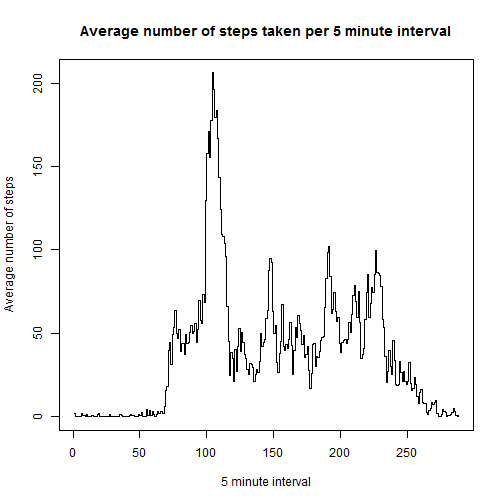
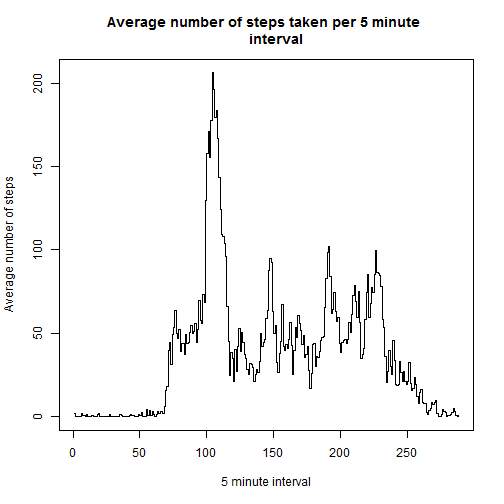
Final submit

Changed region(s): [[0.1488, 0.0298, 0.8929, 0.0893]]

diff --git a/PA1_template.html b/PA1_template.html
@@ -209,10 +209,11 @@ hr {
 <li>We create a histogram of total number of steps taken each day.</li>
 </ol>
 
-<pre><code class="r">plot(data$date, data$steps, type = &quot;h&quot;, main = &quot;Total number of steps taken each day&quot;, ylab = &quot;Number of steps&quot;, xlab = &quot;Date&quot;)
+<pre><code class="r">plot(data$date, data$steps, type = &quot;h&quot;, main = &quot;Total number of steps taken 
+     each day&quot;, ylab = &quot;Number of steps&quot;, xlab = &quot;Date&quot;)
 </code></pre>
 
[2 lines of base64/hex data omitted]
 
 <ol>
 <li>We then calculate the mean and median number of steps taken per day and return it in the text below.</li>
@@ -220,7 +221,8 @@ hr {
 
 <pre><code class="r">meansteps &lt;- mean(data$steps, na.rm=TRUE)
 mediansteps &lt;- median(data$steps, na.rm=TRUE)
-##The mean number of steps is `r meansteps` and the median number of steps is `r mediansteps`. Please note that missing values have been ignored.
+##The mean number of steps is `r meansteps` and the median number of steps is 
+##`r mediansteps`. Please note that missing values have been ignored.
 </code></pre>
 
 <p>The mean number of steps is 37.3826 and the median number of steps is 0. Please note that missing values have been ignored.</p>
@@ -232,17 +234,19 @@ mediansteps &lt;- median(data$steps, na.rm=TRUE)
 </ol>
 
 <pre><code class="r">DAP &lt;- sapply(split(data$steps, data$interval), mean, na.rm=TRUE)
-plot(DAP, type = &quot;s&quot;, main = &quot;Average number of steps taken per 5 minute interval&quot;, ylab = &quot;Average number of steps&quot;, xlab = &quot;5 minute interval&quot;)
+plot(DAP, type = &quot;s&quot;, main = &quot;Average number of steps taken per 5 minute 
+     interval&quot;, ylab = &quot;Average number of steps&quot;, xlab = &quot;5 minute interval&quot;)
 </code></pre>
 
[2 lines of base64/hex data omitted]
 
 <ol>
 <li>We then calculate the max 5 minute interval and return it in the text below</li>
 </ol>
 
 <pre><code class="r">maxDAP &lt;- which(DAP == max(DAP))
-##The 5-minute interval, on average across all the days in the dataset, which contains the maximum number of steps, is the `r maxDAP`th interval.
+##The 5-minute interval, on average across all the days in the dataset, which
+##contains the maximum number of steps, is the `r maxDAP`th interval.
 </code></pre>
 
 <p>The 5-minute interval, on average across all the days in the dataset, which contains the maximum number of steps, is the 104th interval.</p>
@@ -285,14 +289,17 @@ completedata$steps &lt;- newv
 <li>First, we make a histogram of the total number of steps taken each day and then we calculate and report the mean and median total number of steps taken per day in the text below.</li>
 </ol>
 
-<pre><code class="r">plot(completedata$date, completedata$steps, type = &quot;h&quot;, main = &quot;Total number of steps taken each day&quot;, ylab = &quot;Number of steps&quot;, xlab = &quot;Date&quot;)
+<pre><code class="r">plot(completedata$date, completedata$steps, type = &quot;h&quot;, main = &quot;Total number 
+     of steps taken each day&quot;, ylab = &quot;Number of steps&quot;, xlab = &quot;Date&quot;)
 </code></pre>
 
[2 lines of base64/hex data omitted]
 
 <pre><code class="r">meansteps2 &lt;- mean(completedata$steps)
 mediansteps2 &lt;- median(completedata$steps)
-##The mean number of steps taken each day is `r meansteps` and the median number of steps is `r mediansteps`. Please note that missing values have been replaced with the average value per 5 minute interval.
+##The mean number of steps taken each day is `r meansteps` and the median number 
+##of steps is `r mediansteps`. Please note that missing values have been 
+##replaced with the average value per 5 minute interval.
 </code></pre>
 
 <p>The mean number of steps taken each day is 37.3826 and the median number of steps is 0. Please note that missing values have been replaced with the average value per 5 minute interval.</p>
@@ -308,11 +315,23 @@ mediansteps2 &lt;- median(completedata$steps)
 <pre><code class="r">install.packages(&quot;timeDate&quot;, repos=&quot;http://cran.rstudio.com/&quot;)
 </code></pre>
 
-<pre><code>## Error in install.packages : Updating loaded packages
+<pre><code>## Installing package into &#39;C:/Users/mikoflan/Documents/R/win-library/3.1&#39;
+## (as &#39;lib&#39; is unspecified)
+</code></pre>
+
+<pre><code>## package &#39;timeDate&#39; successfully unpacked and MD5 sums checked
+## 
+## The downloaded binary packages are in
+##  C:\Users\mikoflan\AppData\Local\Temp\RtmpQ3X17d\downloaded_packages
 </code></pre>
 
 <pre><code class="r">library(&quot;timeDate&quot;)
-time &lt;- completedata$date
+</code></pre>
+
+<pre><code>## Warning: package &#39;timeDate&#39; was built under R version 3.1.1
+</code></pre>
+
+<pre><code class="r">time &lt;- completedata$date
 weekend &lt;- sapply(as.Date(time), isWeekend)
 weekend &lt;- gsub(&quot;TRUE&quot;, &quot;weekend&quot;, weekend)
 weekend &lt;- gsub(&quot;FALSE&quot;, &quot;weekday&quot;, weekend)
@@ -341,7 +360,8 @@ wedf &lt;- data.frame(Interval, stepswe, timewe)
 colnames(wedf) &lt;- c(&quot;Interval&quot;, &quot;steps&quot;, &quot;time&quot;)
 colnames(wddf) &lt;- c(&quot;Interval&quot;, &quot;steps&quot;, &quot;time&quot;)
 alldata &lt;- rbind(wddf, wedf)
-xyplot(steps ~ Interval | time, data = alldata, type = &quot;l&quot;, layout = c(1, 2), ylab = &quot;Number of steps&quot;)
+xyplot(steps ~ Interval | time, data = alldata, type = &quot;l&quot;, 
+       layout = c(1, 2), ylab = &quot;Number of steps&quot;)
 </code></pre>
 
[1 lines of base64/hex data omitted]

diff --git a/PA1_template.md b/PA1_template.md
@@ -29,7 +29,8 @@ data$date <- strptime(data$date, "%Y-%m-%d")
 
 
 ```r
-plot(data$date, data$steps, type = "h", main = "Total number of steps taken each day", ylab = "Number of steps", xlab = "Date")
+plot(data$date, data$steps, type = "h", main = "Total number of steps taken 
+     each day", ylab = "Number of steps", xlab = "Date")
 ```
 
 ![plot of chunk unnamed-chunk-3](figure/unnamed-chunk-3.png) 
@@ -40,7 +41,8 @@ plot(data$date, data$steps, type = "h", main = "Total number of steps taken each
 ```r
 meansteps <- mean(data$steps, na.rm=TRUE)
 mediansteps <- median(data$steps, na.rm=TRUE)
-##The mean number of steps is `r meansteps` and the median number of steps is `r mediansteps`. Please note that missing values have been ignored.
+##The mean number of steps is `r meansteps` and the median number of steps is 
+##`r mediansteps`. Please note that missing values have been ignored.
 ```
 
 The mean number of steps is 37.3826 and the median number of steps is 0. Please note that missing values have been ignored.
@@ -52,7 +54,8 @@ The mean number of steps is 37.3826 and the median number of steps is 0. Please 
 
 ```r
 DAP <- sapply(split(data$steps, data$interval), mean, na.rm=TRUE)
-plot(DAP, type = "s", main = "Average number of steps taken per 5 minute interval", ylab = "Average number of steps", xlab = "5 minute interval")
+plot(DAP, type = "s", main = "Average number of steps taken per 5 minute 
+     interval", ylab = "Average number of steps", xlab = "5 minute interval")
 ```
 
 ![plot of chunk unnamed-chunk-5](figure/unnamed-chunk-5.png) 
@@ -62,7 +65,8 @@ plot(DAP, type = "s", main = "Average number of steps taken per 5 minute interva
 
 ```r
 maxDAP <- which(DAP == max(DAP))
-##The 5-minute interval, on average across all the days in the dataset, which contains the maximum number of steps, is the `r maxDAP`th interval.
+##The 5-minute interval, on average across all the days in the dataset, which
+##contains the maximum number of steps, is the `r maxDAP`th interval.
 ```
 
 The 5-minute interval, on average across all the days in the dataset, which contains the maximum number of steps, is the 104th interval.
@@ -105,7 +109,8 @@ completedata$steps <- newv
 
 
 ```r
-plot(completedata$date, completedata$steps, type = "h", main = "Total number of steps taken each day", ylab = "Number of steps", xlab = "Date")
+plot(completedata$date, completedata$steps, type = "h", main = "Total number 
+     of steps taken each day", ylab = "Number of steps", xlab = "Date")
 ```
 
 ![plot of chunk unnamed-chunk-10](figure/unnamed-chunk-10.png) 
@@ -113,7 +118,9 @@ plot(completedata$date, completedata$steps, type = "h", main = "Total number of 
 ```r
 meansteps2 <- mean(completedata$steps)
 mediansteps2 <- median(completedata$steps)
-##The mean number of steps taken each day is `r meansteps` and the median number of steps is `r mediansteps`. Please note that missing values have been replaced with the average value per 5 minute interval.
+##The mean number of steps taken each day is `r meansteps` and the median number 
+##of steps is `r mediansteps`. Please note that missing values have been 
+##replaced with the average value per 5 minute interval.
 ```
 
 The mean number of steps taken each day is 37.3826 and the median number of steps is 0. Please note that missing values have been replaced with the average value per 5 minute interval.
@@ -130,11 +137,26 @@ install.packages("timeDate", repos="http://cran.rstudio.com/")
 ```
 
 ```
-## Error in install.packages : Updating loaded packages
+## Installing package into 'C:/Users/mikoflan/Documents/R/win-library/3.1'
+## (as 'lib' is unspecified)
+```
+
+```
+## package 'timeDate' successfully unpacked and MD5 sums checked
+## 
+## The downloaded binary packages are in
+## 	C:\Users\mikoflan\AppData\Local\Temp\RtmpQ3X17d\downloaded_packages
 ```
 
 ```r
 library("timeDate")
+```
+
+```
+## Warning: package 'timeDate' was built under R version 3.1.1
+```
+
+```r
 time <- completedata$date
 weekend <- sapply(as.Date(time), isWeekend)
 weekend <- gsub("TRUE", "weekend", weekend)
@@ -164,7 +186,8 @@ wedf <- data.frame(Interval, stepswe, timewe)
 colnames(wedf) <- c("Interval", "steps", "time")
 colnames(wddf) <- c("Interval", "steps", "time")
 alldata <- rbind(wddf, wedf)
-xyplot(steps ~ Interval | time, data = alldata, type = "l", layout = c(1, 2), ylab = "Number of steps")
+xyplot(steps ~ Interval | time, data = alldata, type = "l", 
+       layout = c(1, 2), ylab = "Number of steps")
 ```
 
 ![plot of chunk unnamed-chunk-12](figure/unnamed-chunk-12.png) 
